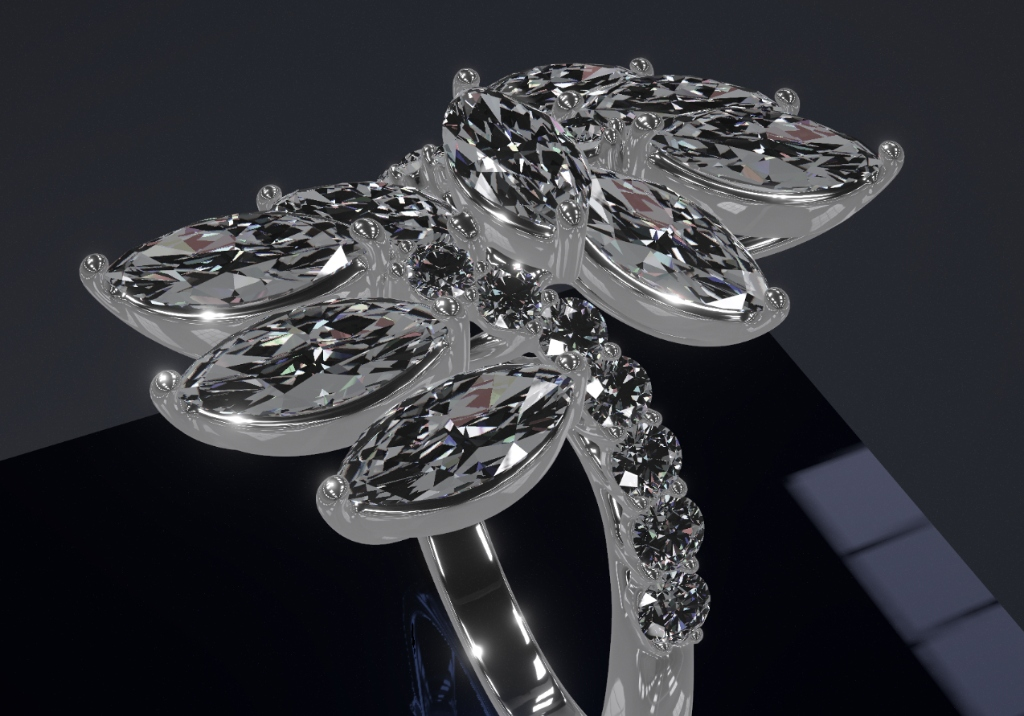
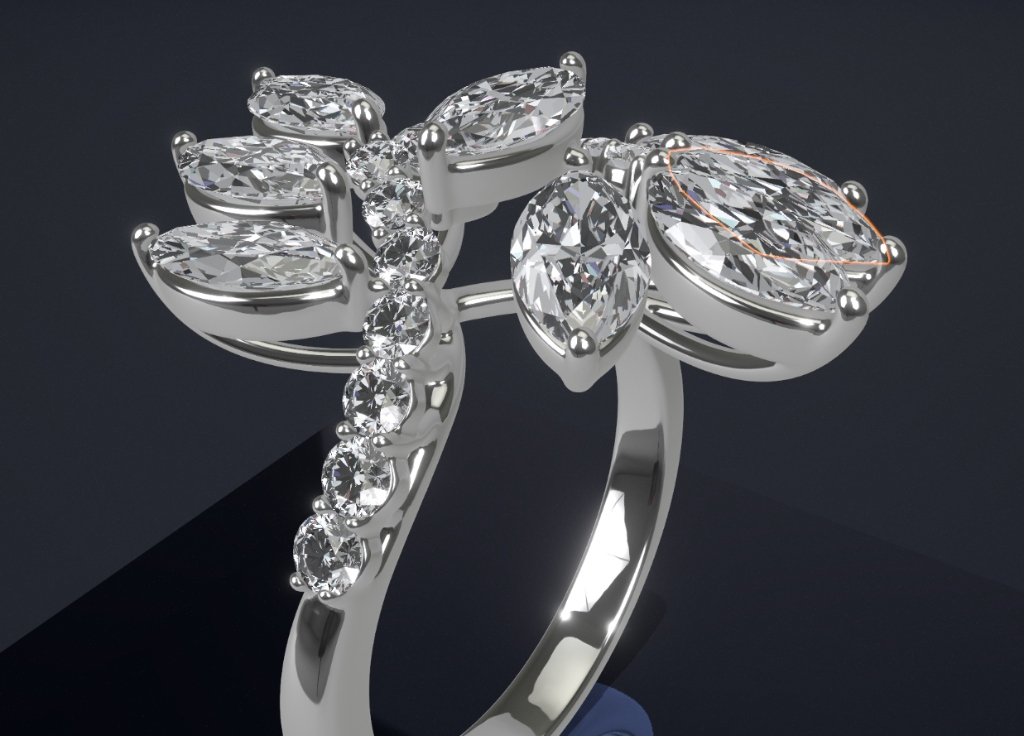
Replace 3D canvas on landing page with static image showcase using high-resolution custom renders and preserve editor configuration

diff --git a/src/LandingPage.jsx b/src/LandingPage.jsx
@@ -12,49 +12,11 @@
  * explanations to introduce the technology stack.
  * ============================================================================
  */
-import React, { useState, useEffect, useRef } from 'react'
-import { Canvas, useFrame } from '@react-three/fiber'
+import React, { useState, useEffect } from 'react'
 import { useProgress } from '@react-three/drei'
 import { GEM_PRESETS, METAL_PRESETS, SCENE_PRESETS, ENV_PRESETS } from './presets.js'
 import './landing.css'
 
-// ─────────────────────────────────────────────────────────────────────────────
-// COMPONENT: RotatingGem
-// A lightweight 3D element rendering a rotating glassmorphic gem
-// ─────────────────────────────────────────────────────────────────────────────
-function RotatingGem() {
-    const ref = useRef()
-    useFrame((state, delta) => {
-        if (ref.current) {
-            ref.current.rotation.y += delta * 0.4
-            ref.current.rotation.x += delta * 0.2
-        }
-    })
-    return (
-        <group ref={ref} scale={2.2}>
-            {/* Semi-translucent dark core */}
-            <mesh>
-                <icosahedronGeometry args={[1, 1]} />
-                <meshStandardMaterial
-                    color="#0f172a"
-                    metalness={0.8}
-                    roughness={0.2}
-                    flatShading={true}
-                />
-            </mesh>
-            {/* Sparkling gold wireframe overlay */}
-            <mesh>
-                <icosahedronGeometry args={[1.005, 1]} />
-                <meshBasicMaterial
-                    color="#d4af37"
-                    wireframe={true}
-                    transparent={true}
-                    opacity={0.65}
-                />
-            </mesh>
-        </group>
-    )
-}
 
 // ─────────────────────────────────────────────────────────────────────────────
 // DATA: Custom Designs for Showroom (No Emojis, No Prices)
@@ -243,20 +205,9 @@ export function LandingPage({ isDragging }) {
                     </div>
                 </div>
 
-                {/* Hero Showcase: 3D rotating canvas element on top, static image switcher on hover */}
+                {/* Hero Showcase: static image switcher */}
                 <div className="hero-image-showcase">
-                    {/* 3D Canvas element */}
-                    <div className="hero-3d-card">
-                        <Canvas camera={{ position: [0, 0, 5], fov: 40 }} style={{ width: '100%', height: '100%' }}>
-                            <ambientLight intensity={1.5} />
-                            <pointLight position={[10, 10, 10]} intensity={3} />
-                            <pointLight position={[-10, -10, -10]} intensity={1} />
-                            <RotatingGem />
-                        </Canvas>
-                        <div className="hero-3d-label">
-                            <span>Interactive 3D Preview</span>
-                        </div>
-                    </div>
+                    <img src={activeDesign.image} alt={activeDesign.title} className="showcase-bg-image" />
 
                     {/* Floating thumbnails */}
                     <div className="showcase-thumbnails">